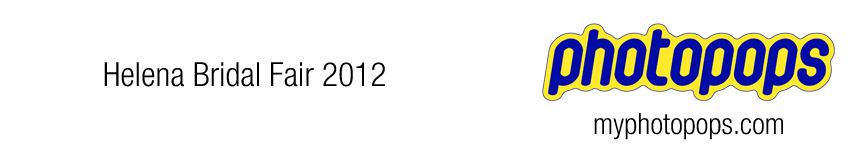
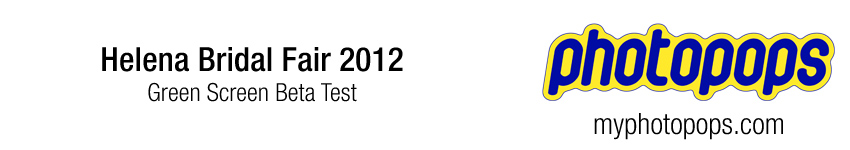
The first working version with green screen

Changed region(s): [[0.1224, 0.2933, 0.4894, 0.6933]]

diff --git a/worker.py b/worker.py
@@ -24,19 +24,9 @@ def print_photo(fn):
 
 def greenscreen(cfg, fn, background='random'):
 	# Greenscreen removal
-	EV_PROC_DIR = "/opt/photopops/events/%s/proc" % cfg['shortname']
-	EV_ORIG_DIR = "/opt/photopops/events/%s/orig" % cfg['shortname']
-
-	fullpath = "%s/%s" % (EV_ORIG_DIR, fn)
-
-	orig = Image(fullpath)
-	back = Image("/opt/photopops/assets/backgrounds/moon.jpg")
-	back = back.scale(2336,3505)
-
-	matte = orig.hueDistance(color=[0,220,0], minvalue = 40).binarize()
-	matte.show()
-	result = (orig-matte)+(back-matte.invert())
-	result.save("%s/%s" % (EV_PROC_DIR, fn))
+	print "Chroma Keying %s" % fn
+	p = subprocess.call(['/usr/bin/python', '/opt/photopops/greenscreen.py', fn, cfg['shortname']], stdout=subprocess.PIPE, stderr=subprocess.PIPE)
+	print "Chroma Key done"
 
 def build_1_up(cfg,photo_list):
 	print "Building final photo"
@@ -123,8 +113,7 @@ def callback(ch, method, properties, body):
 	cfg = loadconfig()
 
 	if m['action'] == "greenscreen":
-		#greenscreen(cfg, m['filename'])
-		print "process green screen"
+		greenscreen(cfg, m['filename'])
 
 	if m['action'] == "build_1_up":
 		fn = build_1_up(cfg,m['files'])

diff --git a/pp.py b/pp.py
@@ -172,8 +172,7 @@ while True:
 
 				# Green screen process
 				if cfg['greenscreen'] == "True":
-					#pp_rabbitmq.send('{"action":"greenscreen","filename":"%s"}' % fn)
-					shutil.copy("%s/%s" % (EV_ORIG_DIR, fn), "%s/%s" % (EV_PROC_DIR, fn))
+					pp_rabbitmq.send('{"action":"greenscreen","filename":"%s"}' % fn)
 				else:
 					# Copy original to processed so we have something to work with later.
 					shutil.copy("%s/%s" % (EV_ORIG_DIR, fn), "%s/%s" % (EV_PROC_DIR, fn))
